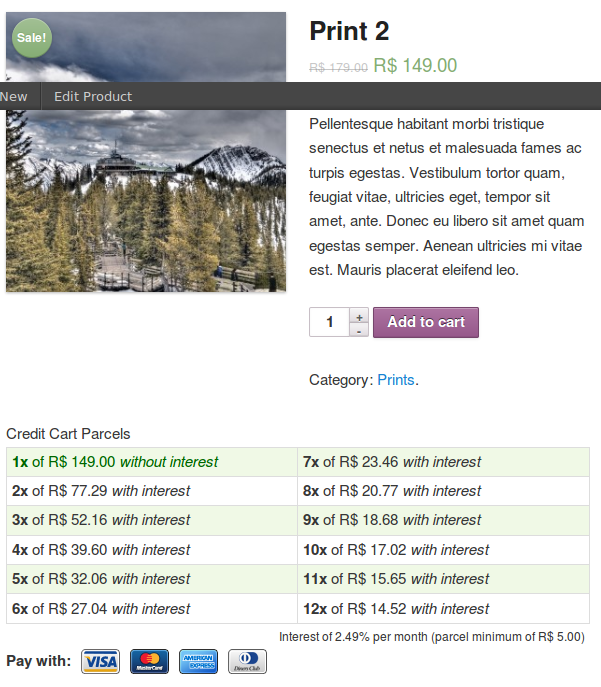
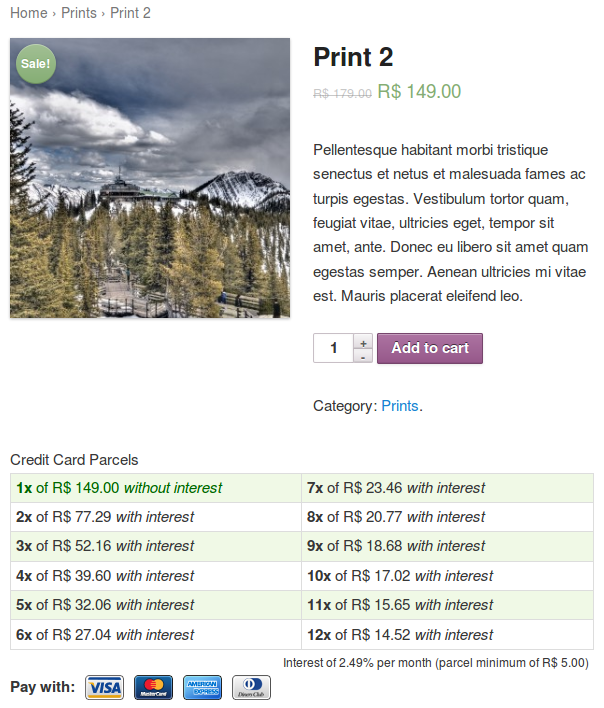
fixed languages

diff --git a/wc-credit-cart-interest-table.php b/wc-credit-cart-interest-table.php
@@ -697,7 +697,10 @@ class WC_CreditCardInterestTable {
 
             // Open the table.
             $table .= '<div id="wc-credit-cart-table" class="clear" style="width: ' . $design['width'] . ';' . $align . ';">';
-            $table .= '<h3>' . $design['title'] . '</h3>';
+
+            if ( $design['display'] != 2 ) {
+                $table .= '<h3>' . $design['title'] . '</h3>';
+            }
 
             // Border wrapper.
             $table .= '<div id="wc-credit-cart-table-wrap" style="border-color:' . $design['border'] . ';">';
@@ -807,7 +810,7 @@ class WC_CreditCardInterestTable {
      * Create a new tab.
      */
     public function tab_view() {
-        echo '<li class="wcccit_tab"><a href="#tab-wcccit">' . apply_filters( 'wcccit_tab_title' , __( 'Parcels Credit Card', 'wcccit' ) ) . '</a></li>';
+        echo '<li class="wcccit_tab"><a href="#tab-wcccit">' . apply_filters( 'wcccit_tab_title' , __( 'Credit Card Parcels', 'wcccit' ) ) . '</a></li>';
     }
 
     /**
